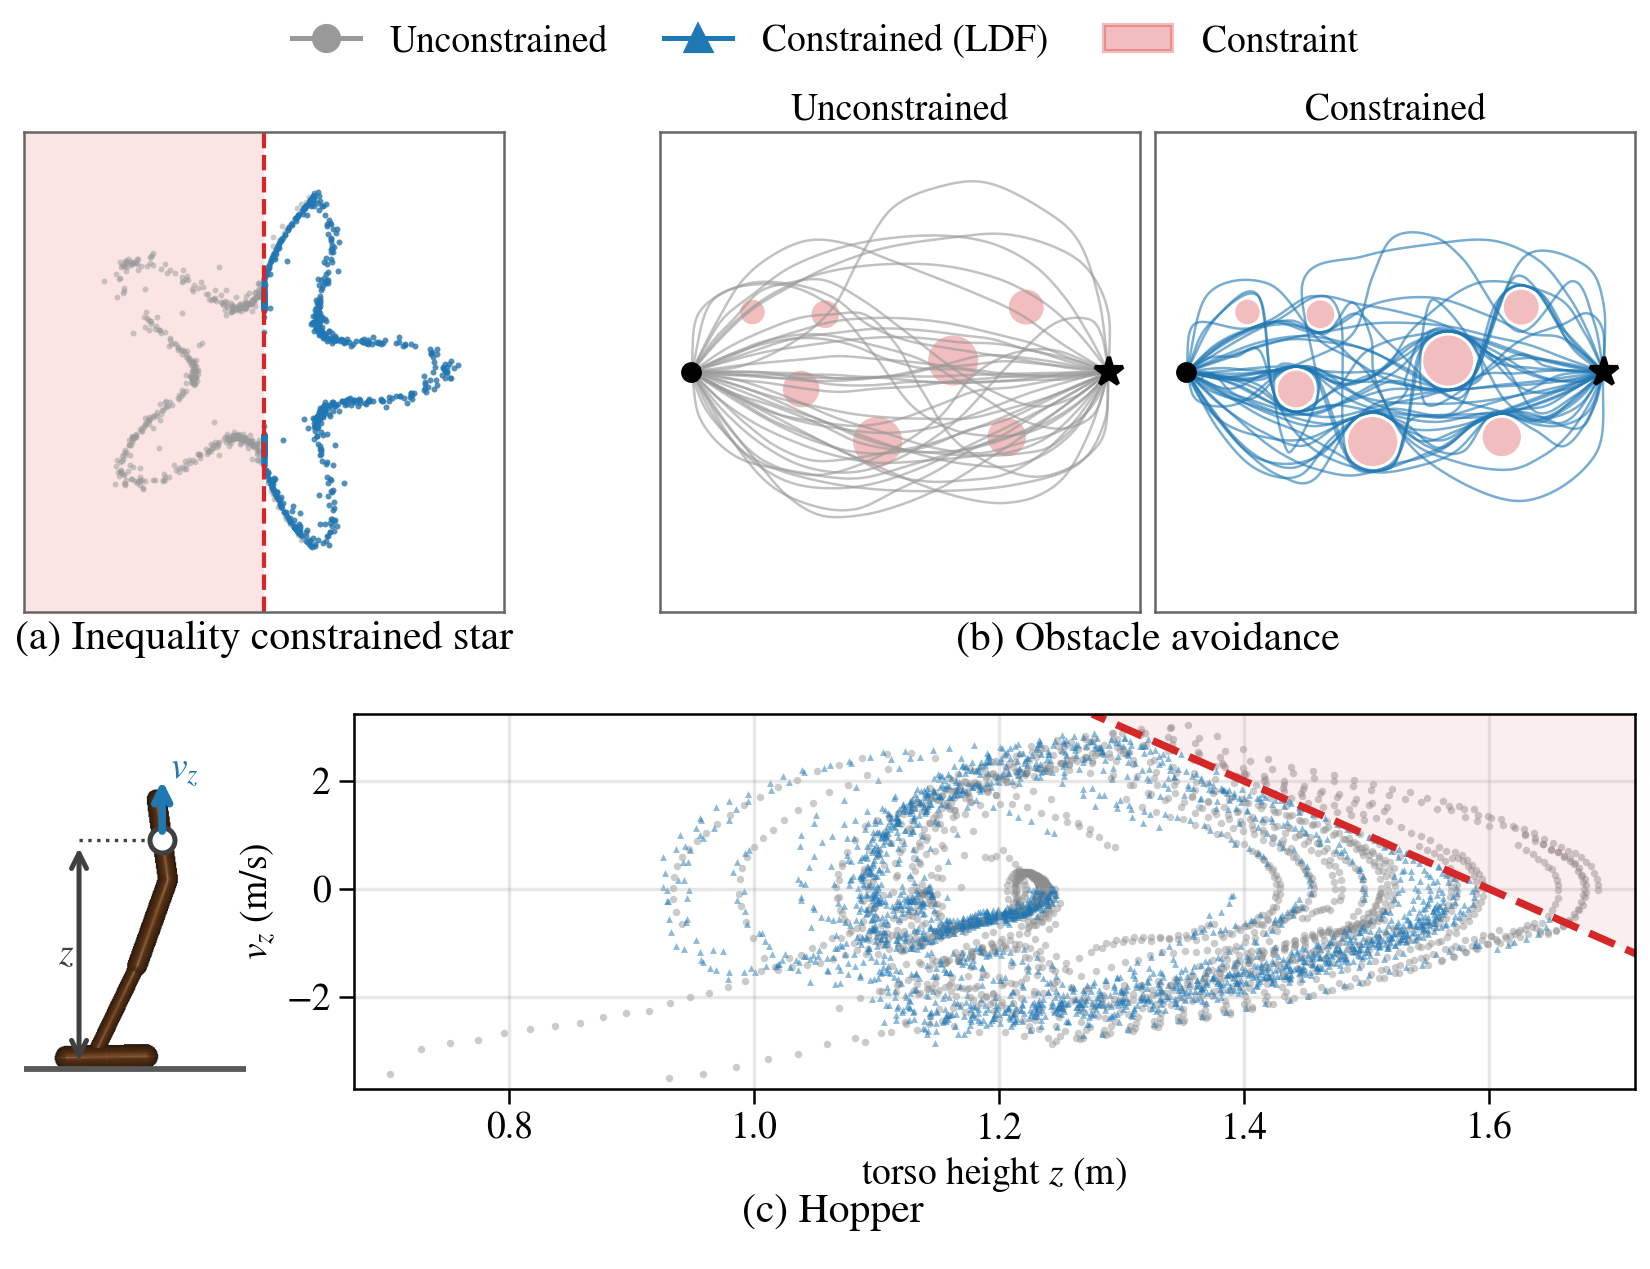
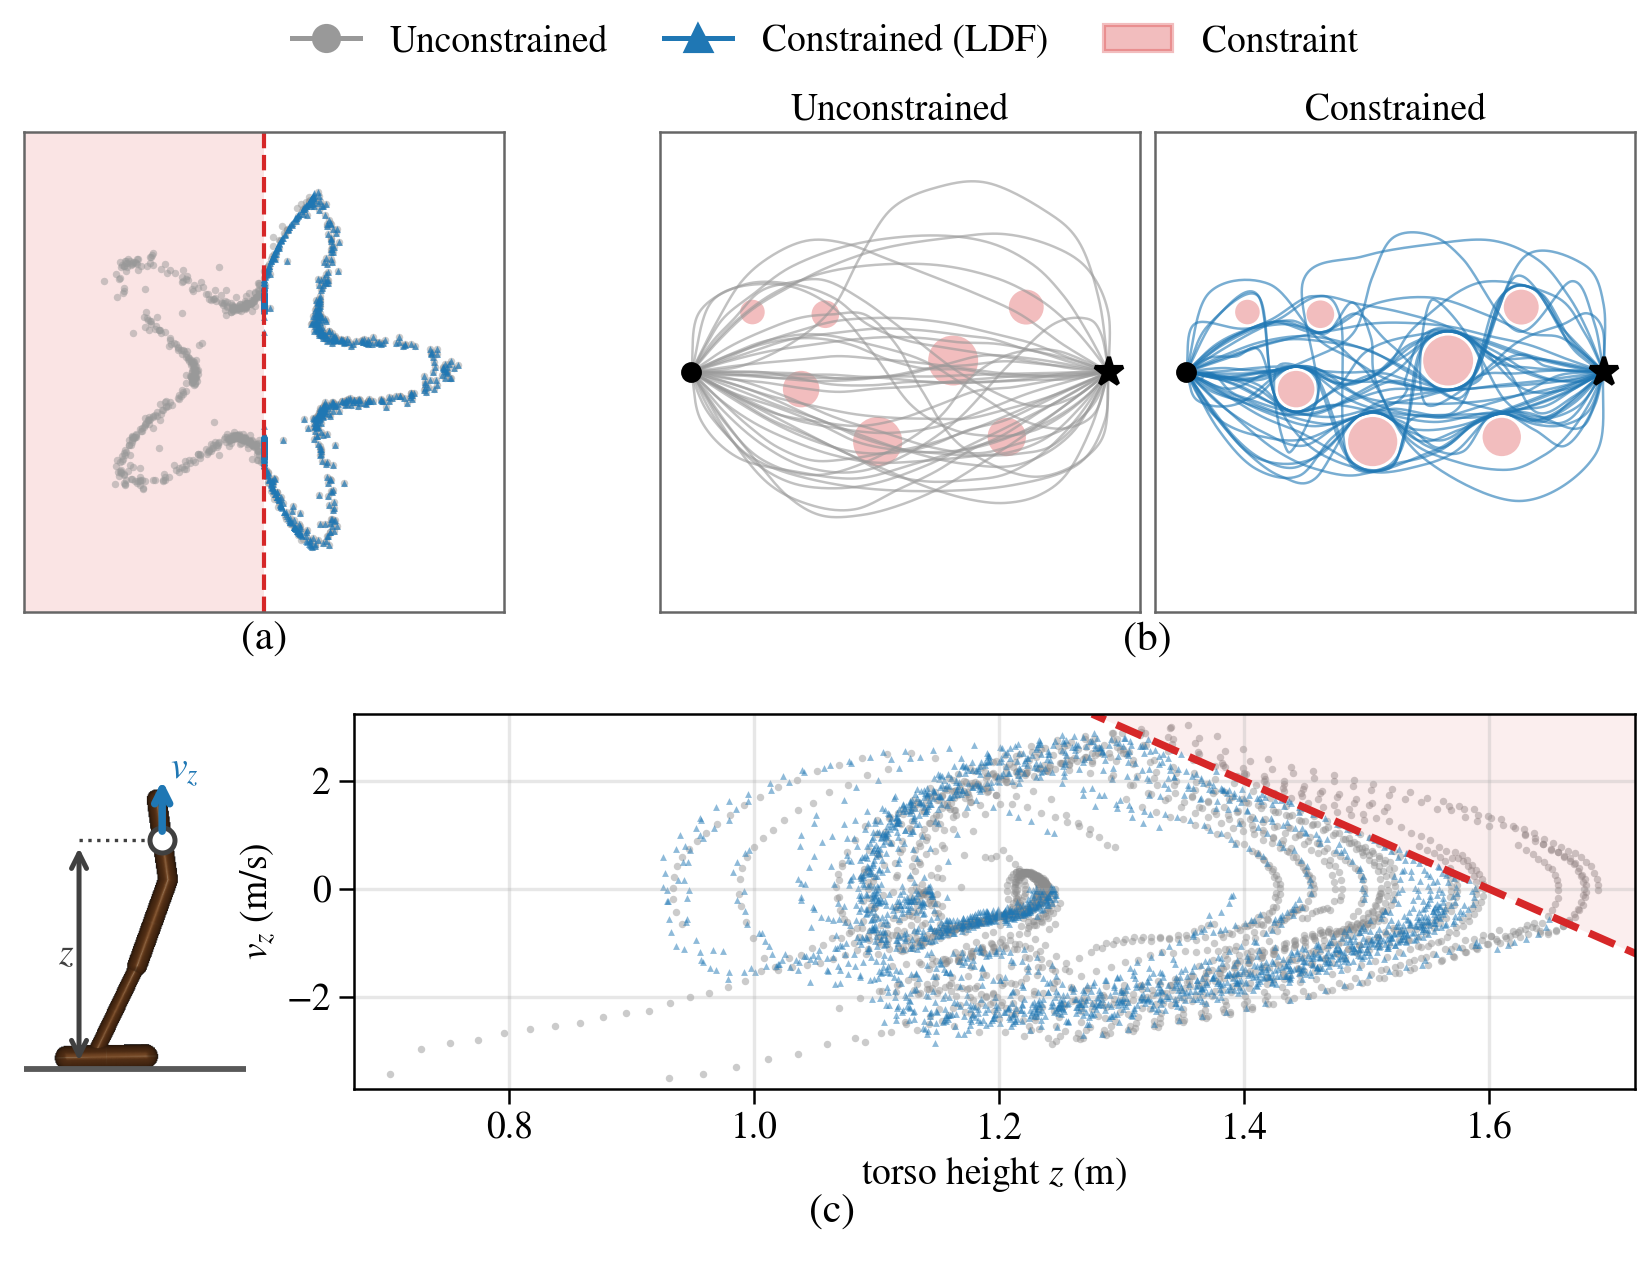
update overview figure

diff --git a/plots.py b/plots.py
@@ -1453,10 +1453,11 @@ def _overview_star(ax, star, point_size):
     ax.axvline(0, color=CONSTRAINT_COLOR, ls="--", lw=1.0)
     x_unc = star.get("x_unc")
     if x_unc is not None:
-        ax.scatter(x_unc[:, 0], x_unc[:, 1], s=point_size,
+        ax.scatter(x_unc[:, 0], x_unc[:, 1], s=point_size * 1.6,
                    color=UNCONSTRAINED_COLOR, alpha=0.5, lw=0)
-    ax.scatter(star["x"][:, 0], star["x"][:, 1], s=point_size,
-               color=CONSTRAINED_COLOR, alpha=0.7, lw=0)
+    # Triangles, as in the hopper panel and the legend; sized as there.
+    ax.scatter(star["x"][:, 0], star["x"][:, 1], s=point_size * 1.35,
+               marker="^", color=CONSTRAINED_COLOR, alpha=0.7, lw=0)
     ax.set_xlim(-lim, lim)
     ax.set_ylim(-lim, lim)
     ax.set_aspect("equal")
@@ -1583,7 +1584,7 @@ def plot_overview(regenerate: bool = False, point_size: float = 2.0):
 
         # (a) Star, flush left.
         _overview_star(axes(left, top_row, square, square), star, point_size)
-        caption("(a) Inequality constrained star", left + square / 2,
+        caption("(a)", left + square / 2,
                 top_row + square + 0.03)
 
         # (b) Obstacle avoidance, flush right with the phase plane below.
@@ -1594,7 +1595,7 @@ def plot_overview(regenerate: bool = False, point_size: float = 2.0):
              for i in range(2)],
             obstacles,
         )
-        caption("(b) Obstacle avoidance", x + pair_w / 2,
+        caption("(b)", x + pair_w / 2,
                 top_row + square + 0.03)
 
         # (c) Hopper: the robot, then its phase plane.
@@ -1605,7 +1606,7 @@ def plot_overview(regenerate: bool = False, point_size: float = 2.0):
             axes(phase_left, bottom_row, right - phase_left, phase_h),
             hopper, point_size,
         )
-        caption("(c) Hopper", (left + W - margin) / 2, caption_top)
+        caption("(c)", (left + W - margin) / 2, caption_top)
 
         out = FIG_DIR / "overview.png"
         fig.savefig(out, dpi=300)
